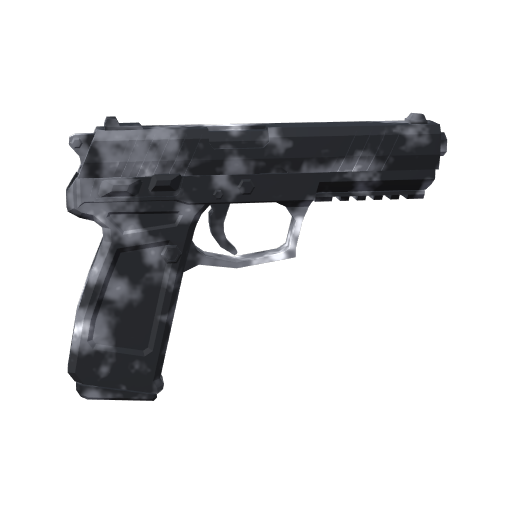
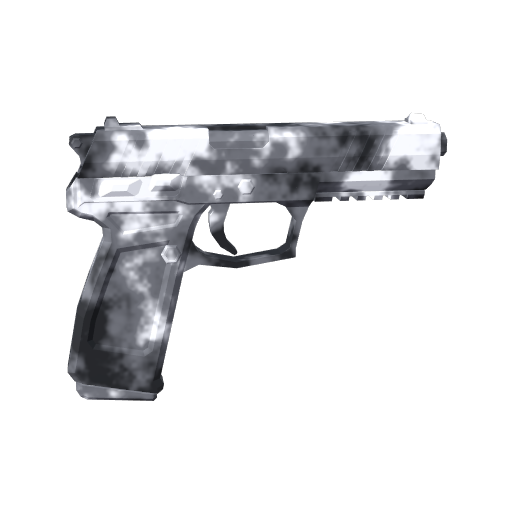
local

Changed region(s): [[0.125, 0.2188, 0.875, 0.7812]]

diff --git a/README.md b/README.md
@@ -3,7 +3,7 @@
 Iconos y definiciones de los objetos del Inventario de Steam del juego (AppID 5536170).
 
 - `icons/`: un PNG de 512 x 512 por objeto (fondo transparente). Steam los lee de este repositorio, que tiene que ser PÚBLICO: `https://raw.githubusercontent.com/juldiaro/bullet/main/icons/<archivo>.png`.
-- `itemdefs.json`: 46 objetos (sombreros, gafas y colores), la caja (100: se gana jugando), su contenido (101), el regalo por tiempo de juego (102) y las recetas de mejorar (120-123: 10 de una rareza por 1 de la siguiente). Nada se vende. Se sube en Steamworks > Inventario de Steam > Definiciones de objetos.
+- `itemdefs.json`: 54 objetos (sombreros, gafas y colores), la caja (100: se gana jugando), su contenido (101), el regalo por tiempo de juego (102) y las recetas de mejorar (120-123: 10 de una rareza por 1 de la siguiente). Nada se vende. Se sube en Steamworks > Inventario de Steam > Definiciones de objetos.
 - `probabilidades.txt`: lo que puede salir en la caja.
 
 Lo genera el editor de Unity: menú *Bullet/6. Inventario de Steam (iconos y JSON)*.
